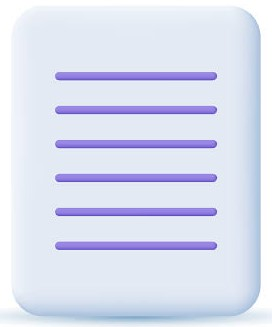
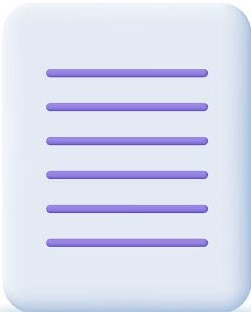
home page updated

diff --git a/frontend/src/pages/Home.tsx b/frontend/src/pages/Home.tsx
@@ -1,19 +1,23 @@
 import { Link } from 'react-router-dom'
+import noteImg from '../assets/images/note.jpeg'
+import todoImg from '../assets/images/todo.jpeg'
 
 function Home() {
     return (
         <div className="container d-flex flex-column justify-content-center align-items-center" style={{ marginTop: '60px' }}>
-            <h1 className="mt-5 text-info">Welcome to Note Pad Application</h1>
+            <h1 className="mt-5 text-info">Welcome to NotePad App</h1>
             <p className='mt-2 opacity-50'>Here you can add, modify notes along with catagories and also you can add todos, modify todos and set reminder for todos.</p>
-            <div className="d-flex justify-content-around w-50 mt-3">
+            <div className="d-flex justify-content-around w-50 mt-2">
                 <div className=' w-50 bg-white rounded shadow-sm m-5 p-4'>
-                    <Link to="/notes" className='text-decoration-none text-black-50'>
-                        let's add some notes
+                    <Link to="/notes" className='text-decoration-none text-black-50 text-center'>
+                        <p className='fs-4'>let's add some notes</p>
+                        <img src={noteImg} />
                     </Link>
                 </div>
-                <div className=' w-50 bg-white rounded shadow-sm m-5 p-4'>
-                    <Link to="/todos" className='text-decoration-none text-black-50'>
-                        let's make todos
+                <div className='w-50 bg-white rounded shadow-sm m-5 p-4'>
+                    <Link to="/todos" className='text-decoration-none text-black-50 text-center'>
+                        <p className='fs-4'>let's make todos</p>
+                        <img src={todoImg} />
                     </Link>
                 </div>
             </div>

diff --git a/frontend/src/layout/NotesSidebar.tsx b/frontend/src/layout/NotesSidebar.tsx
@@ -7,13 +7,15 @@ function Sidebar() {
     const [show, setShow] = useState(false); 
     const handleShow = ()=> setShow(!show)
     const handleClose = ()=> setShow(!show)
-    console.log('outlet: ', outLetData)
     return (
         <>
             <NewCatModal show={show} handleClose={handleClose}/>
             <nav id="sidebarMenu" className="collapse d-lg-block sidebar bg-white overflow-auto">
                 <div className="position-sticky">
                     <div className="list-group list-group-flush mx-3 mt-4">
+                        <p>
+                            {Object.apply(outLetData).open && 'someting'}
+                        </p>
                         <NavLink
                             to="/notes"
                             end

diff --git a/frontend/src/pages/Profile.tsx b/frontend/src/pages/Profile.tsx
@@ -4,7 +4,7 @@ function Profile() {
     <div className="container" style={{ marginTop: '60px' }}>
       <div className="d-flex justify-content-center flex-column align-items-center">
         <img
-          src="logo.png"
+          src="logo.jpeg"
           className="rounded-circle text-center mt-4"
           height="200"
           width="200"
